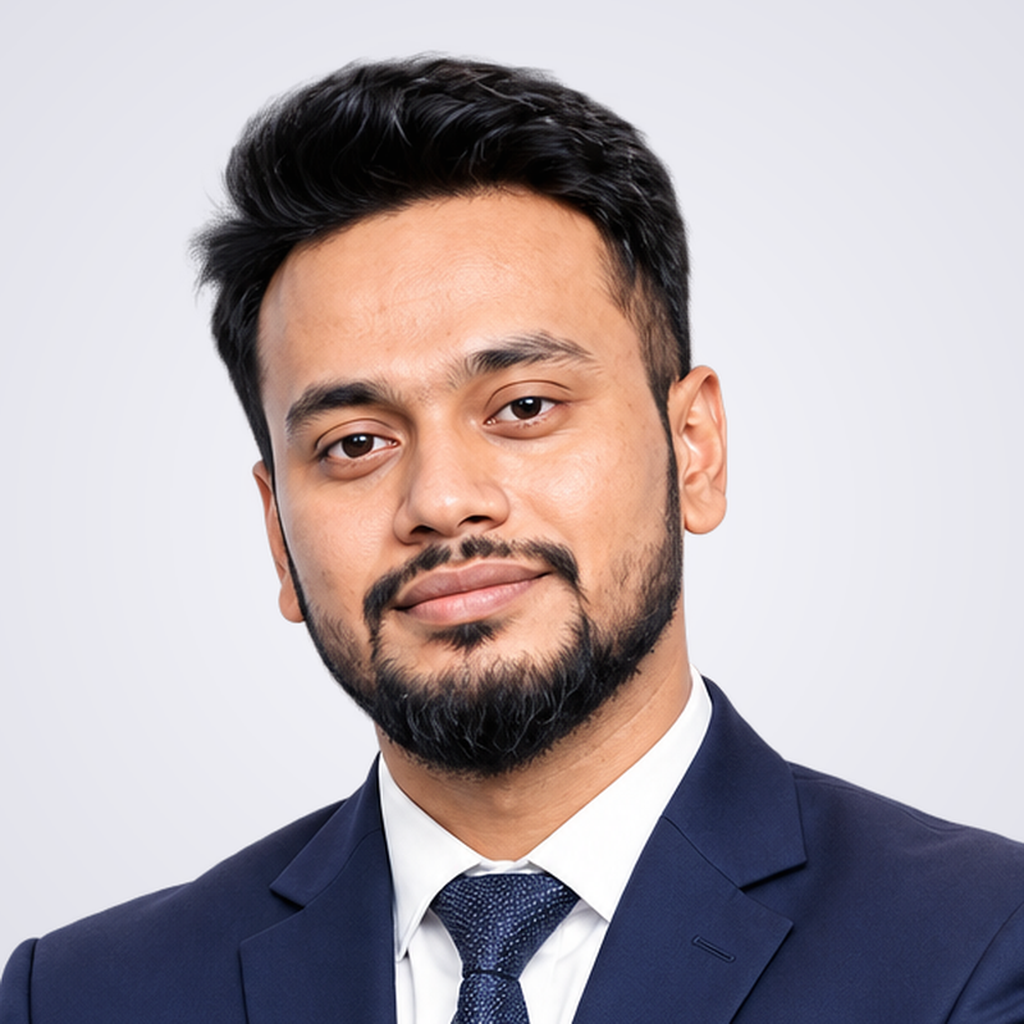
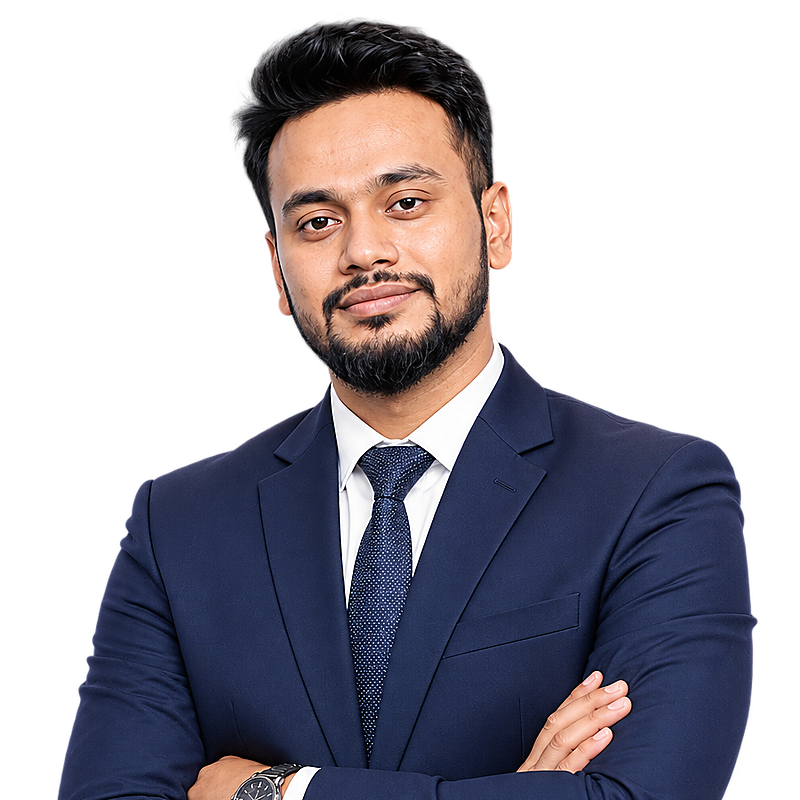
fix: Restore authentic client interface portrait and unify profile to Zunaid Hasan

diff --git a/index.html b/index.html
@@ -119,7 +119,7 @@
     <div class="max-w-7xl mx-auto flex items-center justify-between gap-2">
       <div class="flex items-center gap-2 mx-auto">
         <span class="px-2 py-0.5 rounded-full bg-white/20 font-bold uppercase tracking-wider text-[10px]" id="adCampaignSourceBadge">🎯 Campaign Offer</span>
-        <span id="adCampaignMessage">Special Welcome Offer for Google & Meta Visitors: Book a Free 15-Minute Strategy Consultation with Zunaid Ahmed!</span>
+        <span id="adCampaignMessage">Special Welcome Offer for Google & Meta Visitors: Book a Free 15-Minute Strategy Consultation with Zunaid Hasan!</span>
       </div>
       <button onclick="dismissAdBanner()" class="text-white/80 hover:text-white p-1"><i data-lucide="x" class="w-3.5 h-3.5"></i></button>
     </div>
@@ -134,9 +134,9 @@
       <!-- Brand & Read-Only Status Indicator -->
       <div class="flex items-center gap-3">
         <a href="#hero" class="flex items-center gap-2.5 group">
-          <img id="navAvatar" src="profile.png?v=2" alt="Avatar" class="w-10 h-10 rounded-full object-cover ring-2 ring-navy-600/30 group-hover:ring-navy-600 transition shadow-sm">
+          <img id="navAvatar" src="profile.png?v=4" alt="Avatar" class="w-10 h-10 sm:w-11 sm:h-11 rounded-full object-cover ring-2 ring-navy-600/30 group-hover:ring-navy-600 transition shadow-sm">
           <div class="hidden sm:block">
-            <span id="navName" class="font-bold text-sm tracking-tight text-slate-900 dark:text-white block group-hover:text-navy-600 dark:group-hover:text-blue-400 transition leading-tight">Zunaid Ahmed</span>
+            <span id="navName" class="font-bold text-sm tracking-tight text-slate-900 dark:text-white block group-hover:text-navy-600 dark:group-hover:text-blue-400 transition leading-tight">Zunaid Hasan</span>
             <span class="text-[11px] text-slate-500 dark:text-slate-400 font-medium">Virtual Office & Studio</span>
           </div>
         </a>
@@ -190,7 +190,7 @@
       <div class="flex items-center gap-3">
         <div class="flex items-center gap-2.5">
           <div class="relative">
-            <img id="navOwnerAvatar" src="profile.png?v=2" alt="Owner Portrait" class="w-10 h-10 rounded-full object-cover ring-2 ring-amber-400 shadow-md">
+            <img id="navOwnerAvatar" src="profile.png?v=4" alt="Owner Portrait" class="w-11 h-11 sm:w-12 sm:h-12 rounded-full object-cover ring-2 ring-amber-400 shadow-md">
             <span class="absolute -top-1 -right-1 text-xs select-none">👑</span>
           </div>
           <div>
@@ -346,7 +346,7 @@
               
               <!-- Avatar with Pulsing Status Ring -->
               <div class="relative flex-shrink-0 group">
-                <img id="heroAvatar" src="profile.png?v=2" alt="Trainee Avatar" class="w-24 h-24 sm:w-28 sm:h-28 rounded-2xl object-cover shadow-md ring-4 ring-white dark:ring-slate-900">
+                <img id="heroAvatar" src="profile.png?v=4" alt="Trainee Avatar" class="w-24 h-24 sm:w-28 sm:h-28 rounded-2xl object-cover shadow-md ring-4 ring-white dark:ring-slate-900">
                 <div id="heroStatusDotContainer" class="absolute -bottom-2 -right-2 p-1.5 bg-white dark:bg-slate-900 rounded-xl shadow-md">
                   <span id="heroStatusDot" class="w-4 h-4 rounded-full block"></span>
                 </div>
@@ -356,7 +356,7 @@
               <div class="flex-grow space-y-2">
                 <div class="flex flex-wrap items-center justify-center sm:justify-start gap-2">
                   <h1 id="heroHeadline" class="text-xl sm:text-2xl md:text-3xl font-extrabold text-slate-900 dark:text-white tracking-tight">
-                    Welcome to <span class="text-navy-600 dark:text-blue-400" id="heroName">Zunaid Ahmed</span>'s Virtual Office
+                    Welcome to <span class="text-navy-600 dark:text-blue-400" id="heroName">Zunaid Hasan</span>'s Virtual Office
                   </h1>
                   <span class="inline-flex items-center gap-1 px-2.5 py-0.5 rounded-full text-xs font-semibold bg-blue-100 dark:bg-blue-950 text-blue-800 dark:text-blue-300 border border-blue-200 dark:border-blue-800">
                     <i data-lucide="badge-check" class="w-3.5 h-3.5 text-blue-600 dark:text-blue-400"></i> Verified Pro
@@ -1102,7 +1102,7 @@
             <span class="text-xs text-amber-300 font-semibold">• Live Command Center</span>
           </div>
           <h2 class="text-xl sm:text-2xl font-extrabold tracking-tight text-white">
-            Welcome, <span class="text-amber-400" id="deckOwnerName">Zunaid Ahmed</span>
+            Welcome, <span class="text-amber-400" id="deckOwnerName">Zunaid Hasan</span>
           </h2>
           <p class="text-xs sm:text-sm text-slate-300">
             Monitor client deliveries, verify incoming payments, and review leads in real time.
@@ -1274,7 +1274,7 @@
   <footer class="bg-white dark:bg-slate-950 border-t border-slate-200 dark:border-slate-800 py-10 transition-colors">
     <div class="max-w-7xl mx-auto px-4 sm:px-6 lg:px-8 flex flex-col sm:flex-row items-center justify-between gap-4 text-xs text-slate-500 dark:text-slate-400">
       <div class="flex items-center gap-2">
-        <span class="font-bold text-slate-800 dark:text-slate-200" id="footerName">Zunaid Ahmed</span>
+        <span class="font-bold text-slate-800 dark:text-slate-200" id="footerName">Zunaid Hasan</span>
         <span>• Virtual Office & Agency Portal</span>
       </div>
       <div class="flex items-center gap-3">
@@ -1678,7 +1678,7 @@
         <div class="bg-slate-50 dark:bg-slate-800 p-4 rounded-xl text-left text-xs space-y-2 border border-slate-200 dark:border-slate-700 font-mono">
           <div class="flex justify-between">
             <span class="text-slate-500">Recipient:</span>
-            <span class="font-bold text-slate-800 dark:text-slate-200" id="voucherRecipient">Zunaid Ahmed</span>
+            <span class="font-bold text-slate-800 dark:text-slate-200" id="voucherRecipient">Zunaid Hasan</span>
           </div>
           <div class="flex justify-between">
             <span class="text-slate-500">TrxID:</span>

diff --git a/app.js b/app.js
@@ -49,7 +49,13 @@ function loadConfig() {
       config = JSON.parse(saved);
       // Auto-migrate avatar to local high-res portrait with cache buster
       if (!config.profile) config.profile = {};
-      config.profile.avatar = 'profile.png?v=2';
+      config.profile.avatar = 'profile.png?v=4';
+      if (!config.profile.name || config.profile.name === 'Zunaid Ahmed') {
+        config.profile.name = 'Zunaid Hasan';
+      }
+      if (!config.profile.title || config.profile.title.includes('UI/UX')) {
+        config.profile.title = 'Cloud Accounting Specialist';
+      }
       saveConfigToStorage();
     } catch (e) {
       console.error("Config parse error, reverting to default", e);
@@ -1468,7 +1474,7 @@ function contactClientDirect(encodedContact, encodedName) {
   const contact = decodeURIComponent(encodedContact);
   const name = decodeURIComponent(encodedName);
   const digits = contact.replace(/\D/g, '');
-  const greeting = encodeURIComponent(`Hello ${name}, thank you for your project brief at my Virtual Office! I am Zunaid Ahmed, let's discuss details.`);
+  const greeting = encodeURIComponent(`Hello ${name}, thank you for your project brief at my Virtual Office! I am Zunaid Hasan, let's discuss details.`);
   if (digits.length >= 7) {
     window.open(`https://wa.me/${digits}?text=${greeting}`, '_blank');
   } else {
@@ -1791,7 +1797,7 @@ function addDeliverableItem(token) {
     client.revisions.unshift({
       date: new Date().toLocaleDateString('en-GB', { day: '2-digit', month: 'short', year: 'numeric' }),
       note: `Added new deliverable asset: ${fileName}`,
-      author: "Zunaid Ahmed"
+      author: "Zunaid Hasan"
     });
     saveConfigToStorage();
     renderWorkspacePortals();
@@ -2002,7 +2008,7 @@ function renderWorkspaceAiChats() {
 function replyAiVisitorWhatsApp(contact, name, encodedQuery) {
   const query = decodeURIComponent(encodedQuery);
   const digits = contact.replace(/\D/g, '');
-  const text = encodeURIComponent(`Hi ${name}, this is Zunaid Ahmed! I noticed your inquiry to my AI Receptionist about: "${query}". How can I help you today?`);
+  const text = encodeURIComponent(`Hi ${name}, this is Zunaid Hasan! I noticed your inquiry to my AI Receptionist about: "${query}". How can I help you today?`);
   if (digits.length >= 7) {
     window.open(`https://wa.me/${digits}?text=${text}`, '_blank');
   } else {

diff --git a/data.js b/data.js
@@ -4,9 +4,9 @@ const DEFAULT_CONFIG = {
     adminPin: "7788" // Master PIN for Owner/Admin access
   },
   profile: {
-    name: "Zunaid Ahmed",
-    title: "Senior UI/UX Designer & Digital Solutions Architect",
-    avatar: "profile.png?v=2",
+    name: "Zunaid Hasan",
+    title: "Cloud Accounting Specialist",
+    avatar: "profile.png?v=4",
     cover: "https://images.unsplash.com/photo-1497366216548-37526070297c?auto=format&fit=crop&w=1600&h=600&q=80",
     bio: "I craft high-converting digital interfaces, web applications, and scalable design systems for global brands. Step into my virtual office to collaborate live or kick off your next project below.",
     status: "online", // 'online' or 'deepwork'
